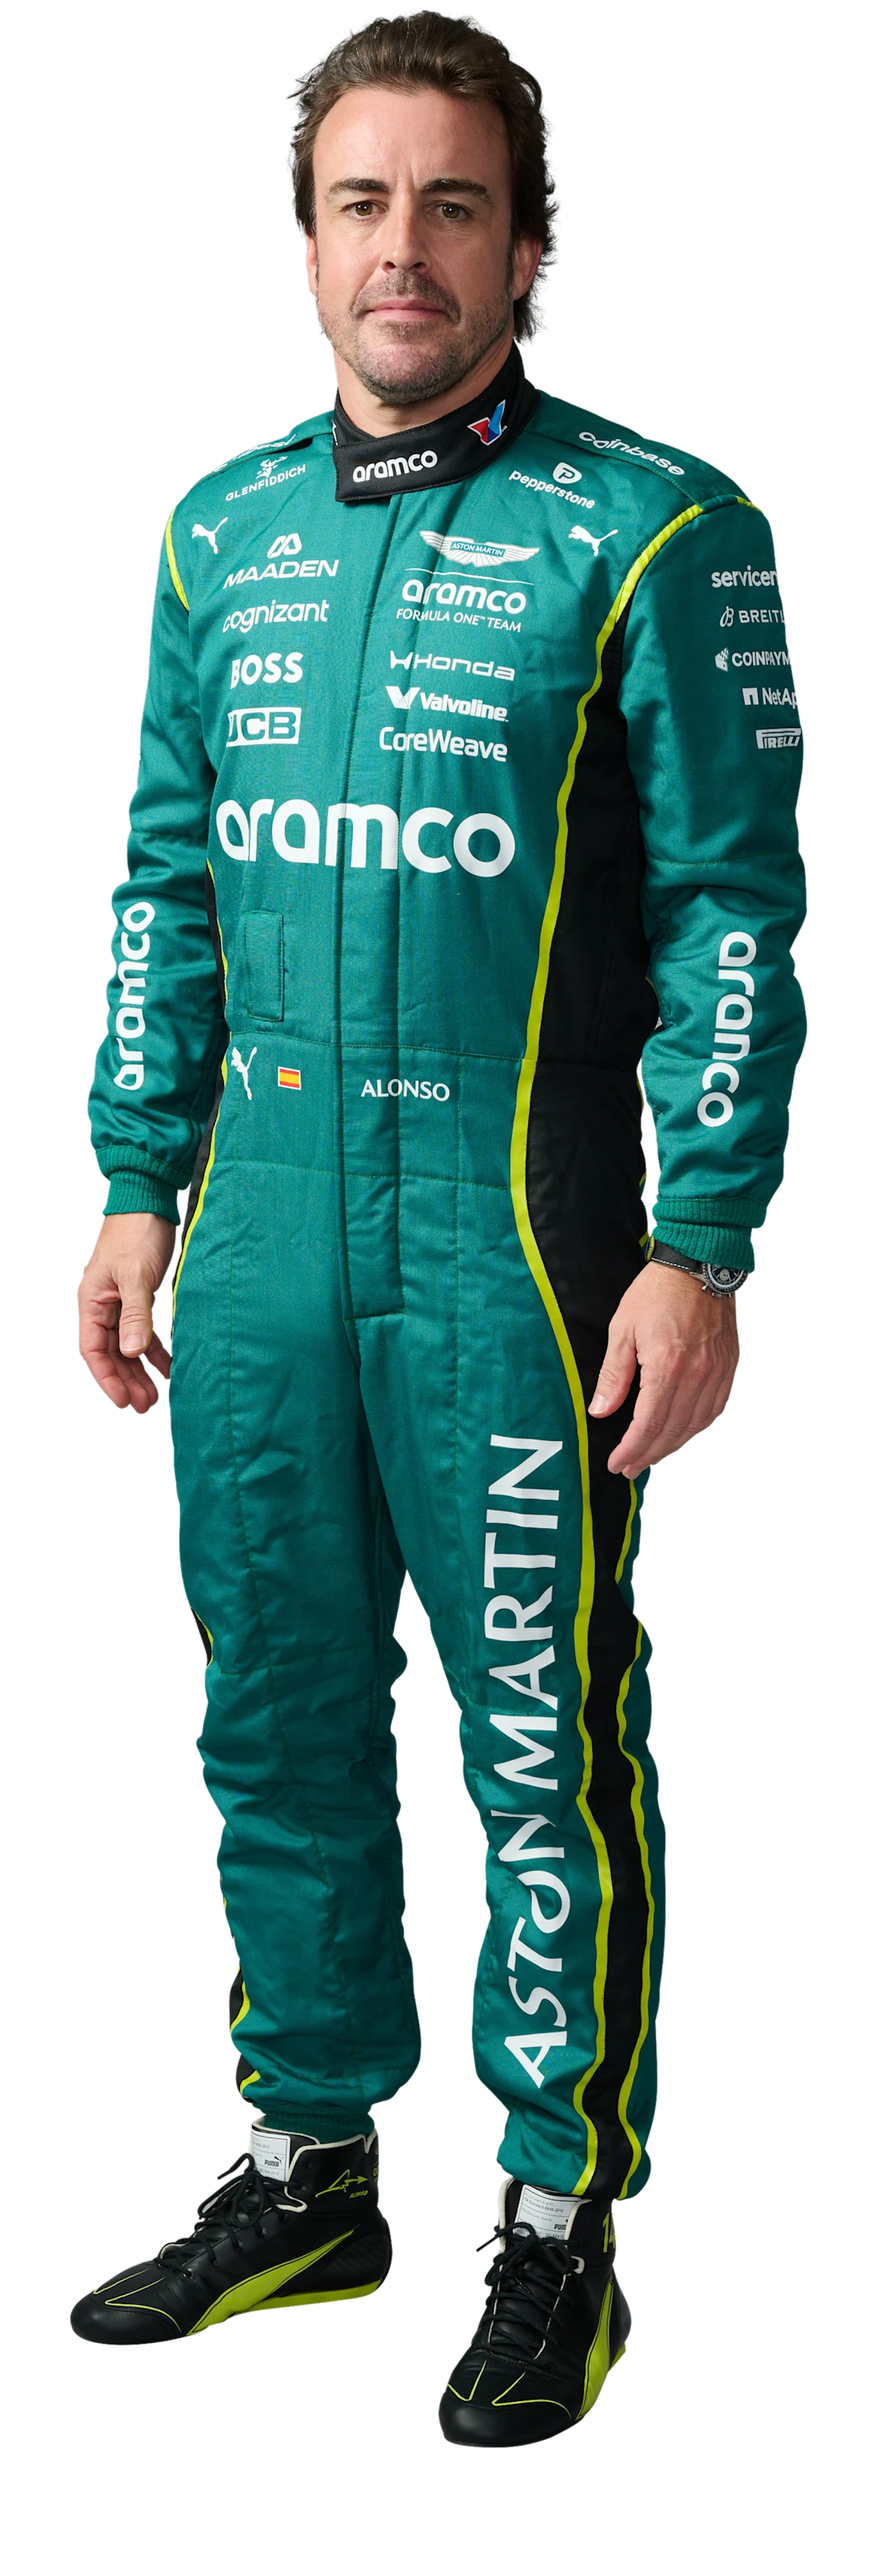
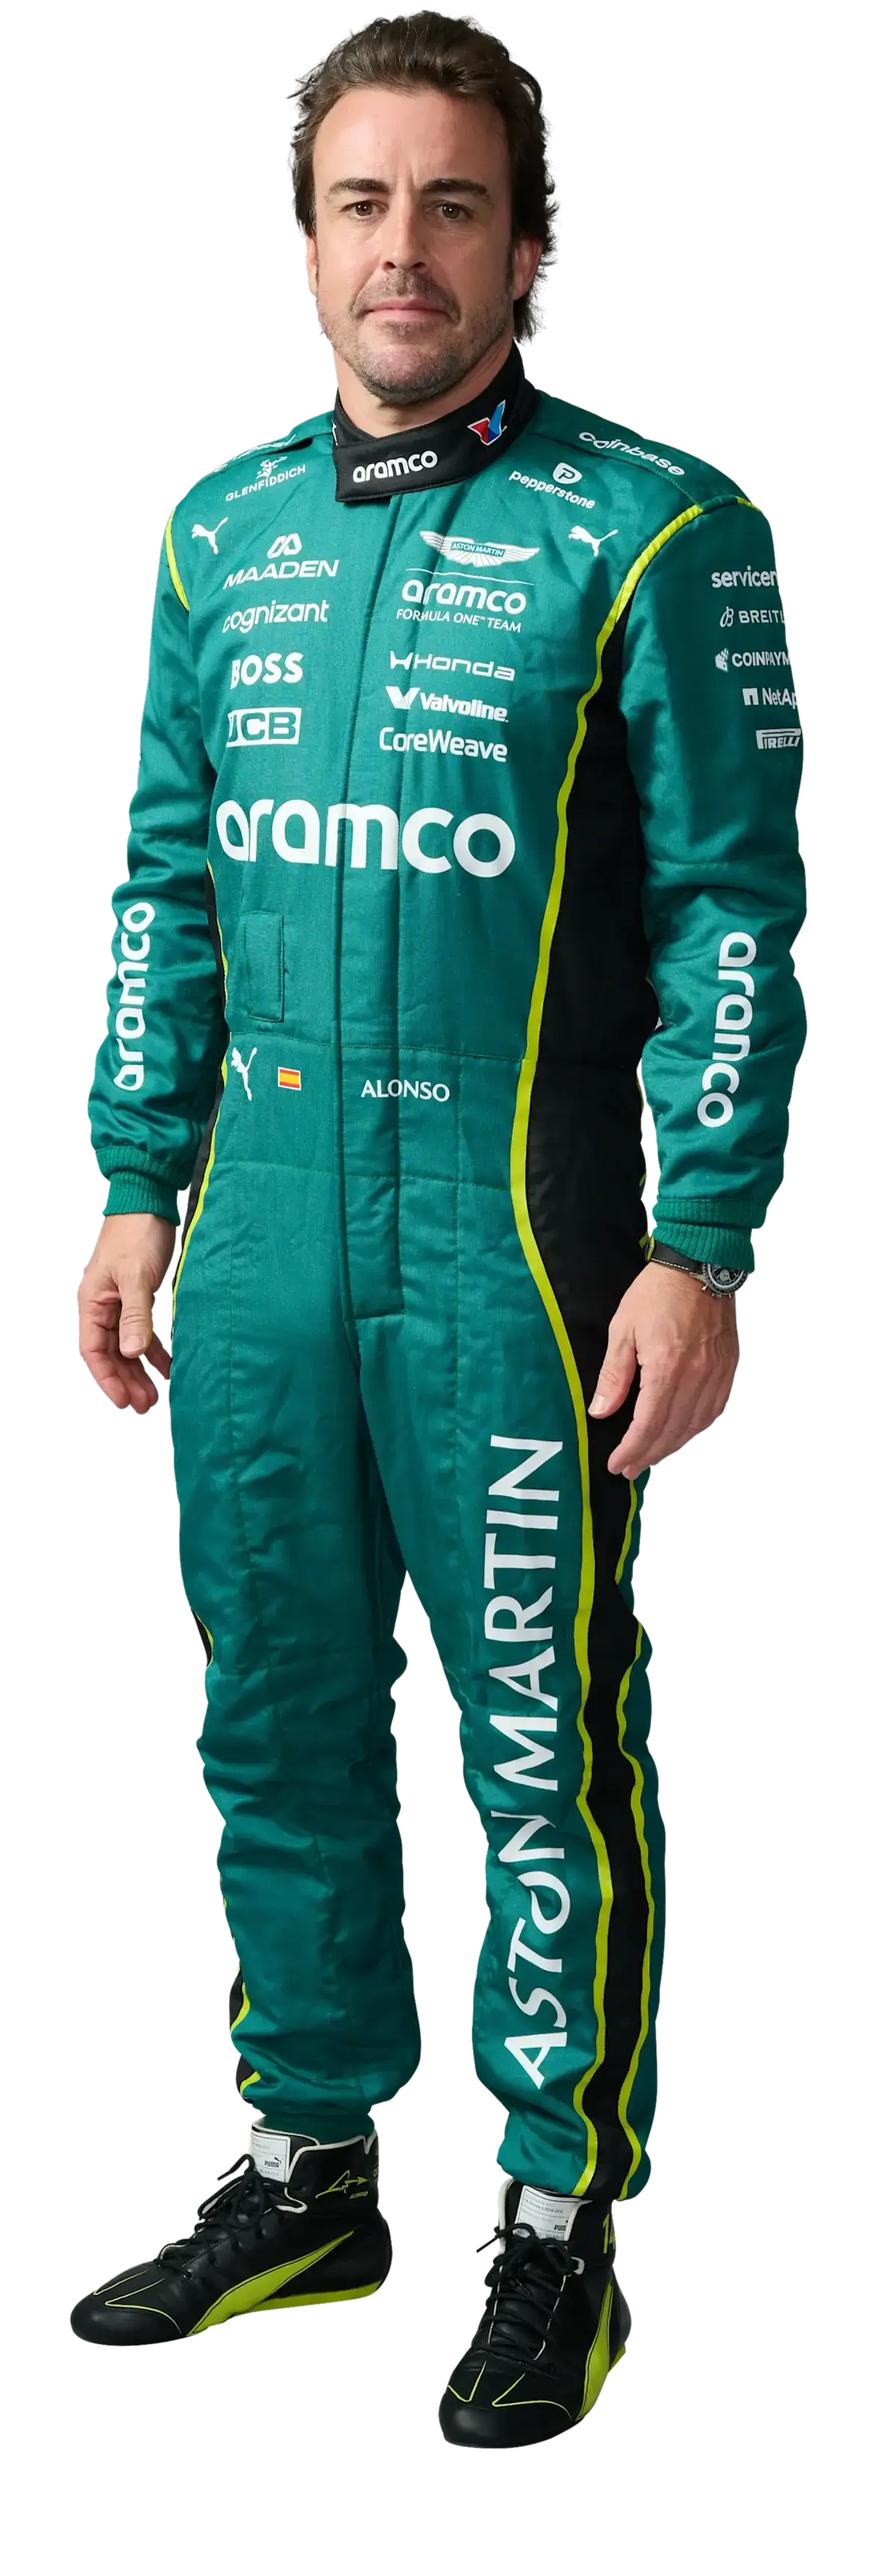
Fotos optimizadas (2,4 MB -> 1,3 MB) y conversion mas ligera en la renovacion

diff --git a/src/index.html b/src/index.html
@@ -30,14 +30,14 @@
       href="https://fonts.googleapis.com/css2?family=Barlow+Condensed:ital,wght@0,400;0,600;0,700;0,800;1,700&family=Inter:wght@300;400;500;600;700&family=Archivo:wght@400;600;700;800;900&display=swap"
       rel="stylesheet"
     />
-    <link rel="stylesheet" href="../estilos/index.css?v=202611131338" />
-    <link rel="stylesheet" href="../estilos/temas.css?v=202611131338" />
-    <link rel="stylesheet" href="../estilos/temporadas.css?v=202611131338" />
-    <link rel="stylesheet" href="../estilos/layout-b.css?v=202611131338" />
-    <link rel="icon" type="image/svg+xml" href="../imgs/am-favicon.svg?v=202611131338" />
-    <link rel="icon" type="image/png" sizes="32x32" href="../imgs/am-favicon-32.png?v=202611131338" />
-    <link rel="apple-touch-icon" sizes="180x180" href="../imgs/am-favicon-180.png?v=202611131338" />
-    <script src="../js/edicion.js?v=202611131338"></script>
+    <link rel="stylesheet" href="../estilos/index.css?v=202611131340" />
+    <link rel="stylesheet" href="../estilos/temas.css?v=202611131340" />
+    <link rel="stylesheet" href="../estilos/temporadas.css?v=202611131340" />
+    <link rel="stylesheet" href="../estilos/layout-b.css?v=202611131340" />
+    <link rel="icon" type="image/svg+xml" href="../imgs/am-favicon.svg?v=202611131340" />
+    <link rel="icon" type="image/png" sizes="32x32" href="../imgs/am-favicon-32.png?v=202611131340" />
+    <link rel="apple-touch-icon" sizes="180x180" href="../imgs/am-favicon-180.png?v=202611131340" />
+    <script src="../js/edicion.js?v=202611131340"></script>
   </head>
 
   <body>
@@ -835,10 +835,10 @@
       </div>
     </div>
 
-    <script src="../js/f1-data.js?v=202611131338"></script>
-    <script src="../js/index.js?v=202611131338"></script>
-    <script src="../js/rotation.js?v=202611131338"></script>
-    <script src="../js/momentos3d.js?v=202611131338"></script>
-    <script src="../js/tec-card.js?v=202611131338"></script>
+    <script src="../js/f1-data.js?v=202611131340"></script>
+    <script src="../js/index.js?v=202611131340"></script>
+    <script src="../js/rotation.js?v=202611131340"></script>
+    <script src="../js/momentos3d.js?v=202611131340"></script>
+    <script src="../js/tec-card.js?v=202611131340"></script>
   </body>
 </html>

diff --git a/src/registro.html b/src/registro.html
@@ -30,14 +30,14 @@
       href="https://fonts.googleapis.com/css2?family=Barlow+Condensed:ital,wght@0,400;0,600;0,700;0,800;1,700&family=Inter:wght@300;400;500;600;700&family=Archivo:wght@400;600;700;800;900&display=swap"
       rel="stylesheet"
     />
-    <link rel="stylesheet" href="../estilos/index.css?v=202611131338" />
-    <link rel="stylesheet" href="../estilos/temas.css?v=202611131338" />
-    <link rel="stylesheet" href="../estilos/temporadas.css?v=202611131338" />
-    <link rel="stylesheet" href="../estilos/layout-b.css?v=202611131338" />
-    <link rel="icon" type="image/svg+xml" href="../imgs/am-favicon.svg?v=202611131338" />
-    <link rel="icon" type="image/png" sizes="32x32" href="../imgs/am-favicon-32.png?v=202611131338" />
-    <link rel="apple-touch-icon" sizes="180x180" href="../imgs/am-favicon-180.png?v=202611131338" />
-    <script src="../js/edicion.js?v=202611131338"></script>
+    <link rel="stylesheet" href="../estilos/index.css?v=202611131340" />
+    <link rel="stylesheet" href="../estilos/temas.css?v=202611131340" />
+    <link rel="stylesheet" href="../estilos/temporadas.css?v=202611131340" />
+    <link rel="stylesheet" href="../estilos/layout-b.css?v=202611131340" />
+    <link rel="icon" type="image/svg+xml" href="../imgs/am-favicon.svg?v=202611131340" />
+    <link rel="icon" type="image/png" sizes="32x32" href="../imgs/am-favicon-32.png?v=202611131340" />
+    <link rel="apple-touch-icon" sizes="180x180" href="../imgs/am-favicon-180.png?v=202611131340" />
+    <script src="../js/edicion.js?v=202611131340"></script>
   </head>
 
   <body class="page-register">
@@ -299,8 +299,8 @@
       <svg viewBox="0 0 24 24" aria-hidden="true"><path d="M12 19V5M6 11l6-6 6 6" /></svg>
     </button>
 
-    <script src="../js/f1-data.js?v=202611131338"></script>
-    <script src="../js/index.js?v=202611131338"></script>
-    <script src="../js/rotation.js?v=202611131338"></script>
+    <script src="../js/f1-data.js?v=202611131340"></script>
+    <script src="../js/index.js?v=202611131340"></script>
+    <script src="../js/rotation.js?v=202611131340"></script>
   </body>
 </html>

diff --git a/src/noticias.html b/src/noticias.html
@@ -30,14 +30,14 @@
       href="https://fonts.googleapis.com/css2?family=Barlow+Condensed:ital,wght@0,400;0,600;0,700;0,800;1,700&family=Inter:wght@300;400;500;600;700&family=Archivo:wght@400;600;700;800;900&display=swap"
       rel="stylesheet"
     />
-    <link rel="stylesheet" href="../estilos/index.css?v=202611131338" />
-    <link rel="stylesheet" href="../estilos/temas.css?v=202611131338" />
-    <link rel="stylesheet" href="../estilos/temporadas.css?v=202611131338" />
-    <link rel="stylesheet" href="../estilos/layout-b.css?v=202611131338" />
-    <link rel="icon" type="image/svg+xml" href="../imgs/am-favicon.svg?v=202611131338" />
-    <link rel="icon" type="image/png" sizes="32x32" href="../imgs/am-favicon-32.png?v=202611131338" />
-    <link rel="apple-touch-icon" sizes="180x180" href="../imgs/am-favicon-180.png?v=202611131338" />
-    <script src="../js/edicion.js?v=202611131338"></script>
+    <link rel="stylesheet" href="../estilos/index.css?v=202611131340" />
+    <link rel="stylesheet" href="../estilos/temas.css?v=202611131340" />
+    <link rel="stylesheet" href="../estilos/temporadas.css?v=202611131340" />
+    <link rel="stylesheet" href="../estilos/layout-b.css?v=202611131340" />
+    <link rel="icon" type="image/svg+xml" href="../imgs/am-favicon.svg?v=202611131340" />
+    <link rel="icon" type="image/png" sizes="32x32" href="../imgs/am-favicon-32.png?v=202611131340" />
+    <link rel="apple-touch-icon" sizes="180x180" href="../imgs/am-favicon-180.png?v=202611131340" />
+    <script src="../js/edicion.js?v=202611131340"></script>
   </head>
 
   <body class="page-news">
@@ -365,8 +365,8 @@
       <svg viewBox="0 0 24 24" aria-hidden="true"><path d="M12 19V5M6 11l6-6 6 6" /></svg>
     </button>
 
-    <script src="../js/f1-data.js?v=202611131338"></script>
-    <script src="../js/index.js?v=202611131338"></script>
-    <script src="../js/rotation.js?v=202611131338"></script>
+    <script src="../js/f1-data.js?v=202611131340"></script>
+    <script src="../js/index.js?v=202611131340"></script>
+    <script src="../js/rotation.js?v=202611131340"></script>
   </body>
 </html>
